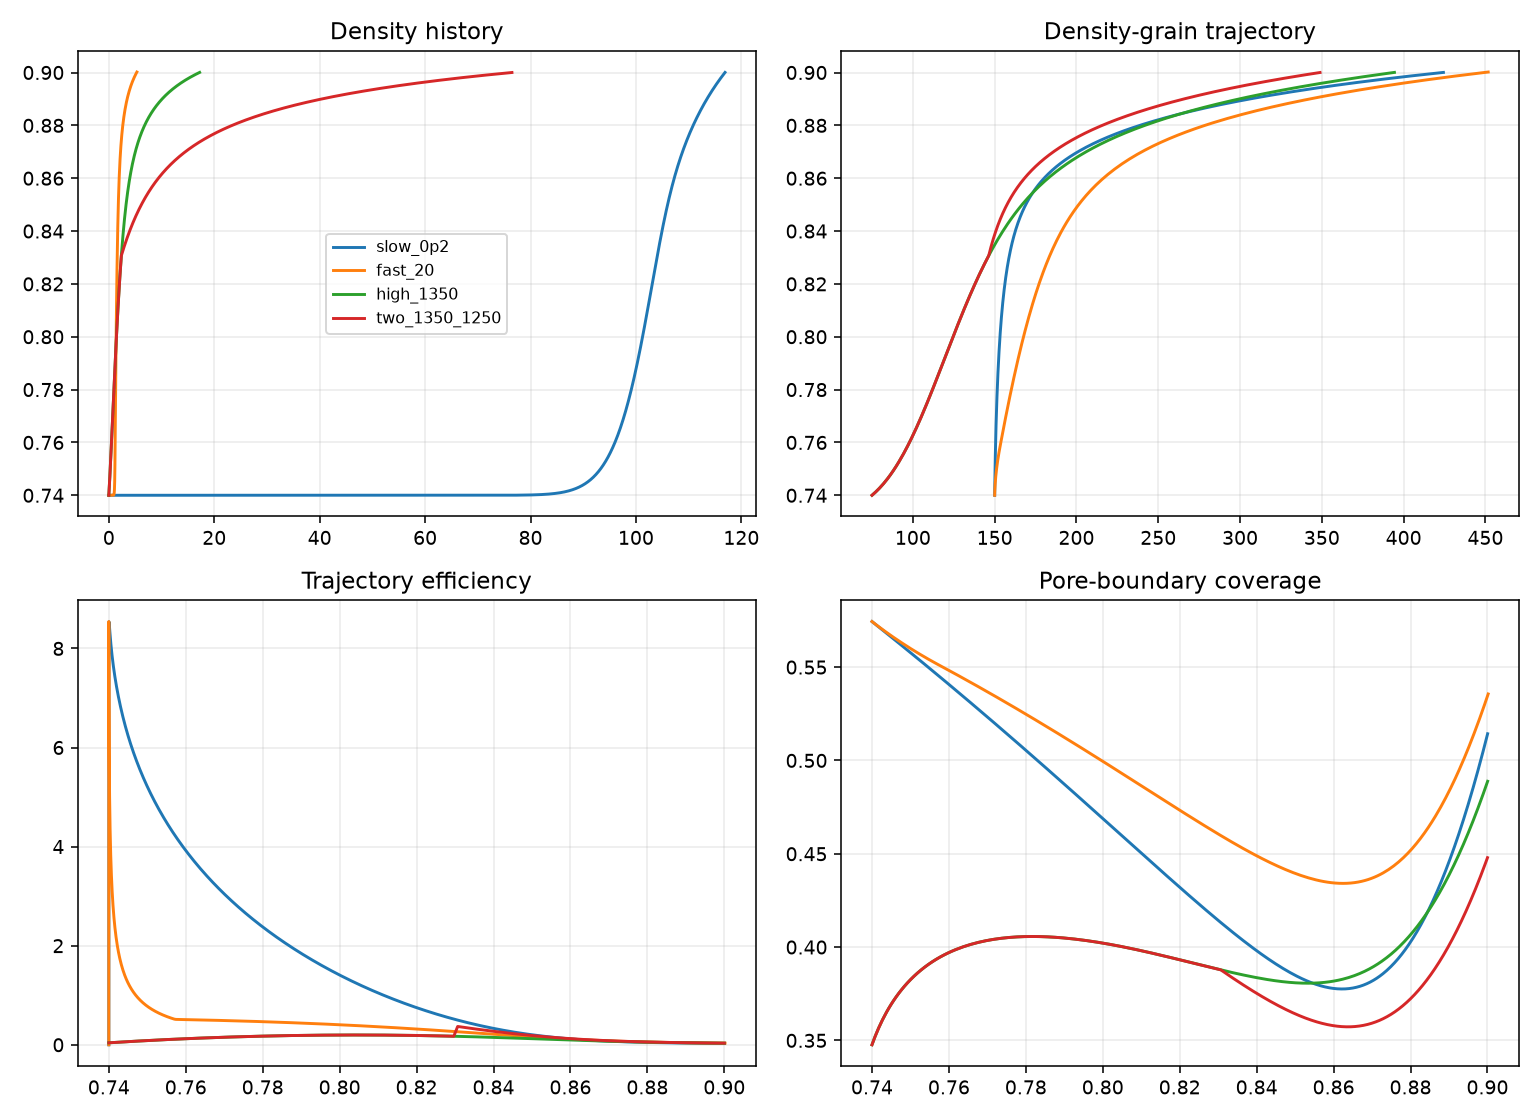
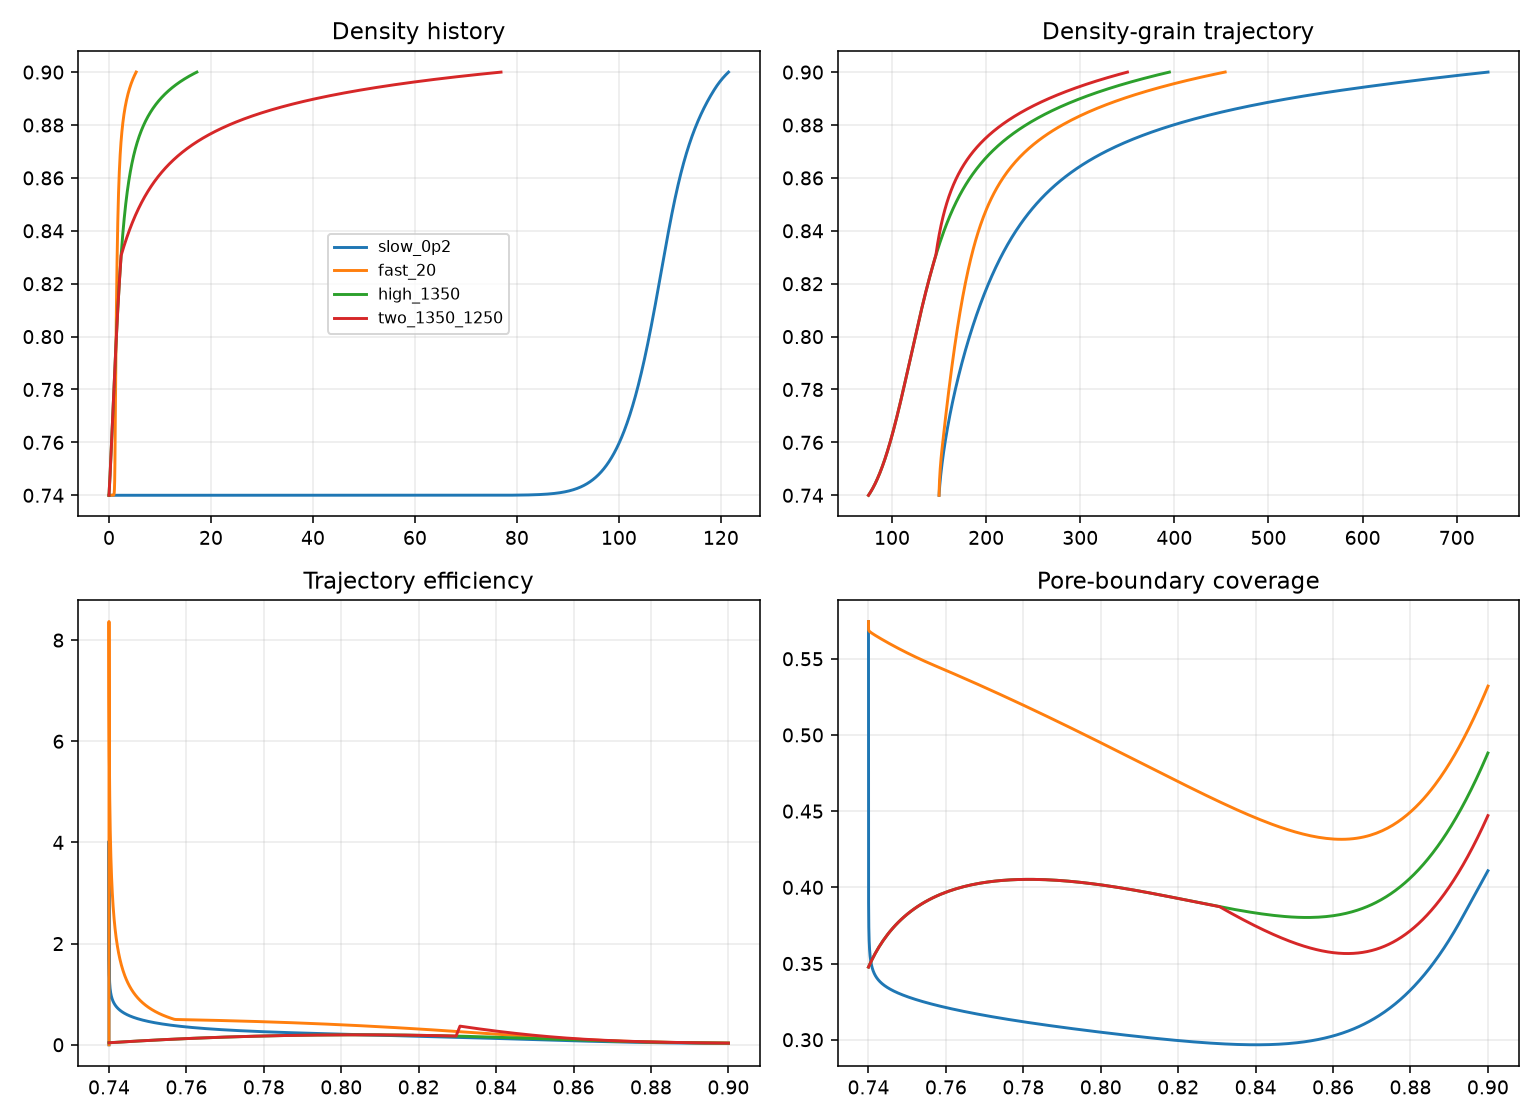
feat: add ablatable slow-ramp topology memory

diff --git a/topology_constrained_sintering.py b/topology_constrained_sintering.py
@@ -21,6 +21,7 @@ class StressState:
 class State:
     rho: float; G: float; pore_radii: np.ndarray; pore_phi: np.ndarray; pore_N: np.ndarray
     topology: TopologyState; stress: StressState; t: float=0.0
+    topology_damage: float=0.0
 @dataclass
 class MechanismFlux:
     rho_dot: float=0.; G_dot: float=0.
@@ -45,6 +46,15 @@ class Params:
     removal_radius_exp: float=2.; dt_min_s: float=.2; dt_max_s: float=180.
     drho_max: float=1e-3; dG_fraction_max: float=.01; dT_max_C: float=2.; rho_cap: float=.985; t_max_s: float=8e5
     enable_PR: bool=True; enable_TL_drag: bool=True; enable_pore_coarsening: bool=True
+    enable_topology_memory: bool=True
+    surface_damage_rate_s: float=2e-5
+    surface_damage_T_mid_C: float=1025.
+    surface_damage_T_width_C: float=180.
+    surface_damage_activity_exp: float=1.0
+    surface_damage_rho_mid: float=.79
+    surface_damage_rho_width: float=.015
+    damage_coverage_strength: float=.65
+    damage_isolation_strength: float=.35
 
 class ThermalProtocol(Protocol):
     t_end: float
@@ -63,10 +73,14 @@ class TwoStep:
     def T(self,t,rho): return self.T2_C if rho>=self.rho_switch else self.T1_C
 
 def pore_number(phi,r): return np.maximum(phi,0)/np.maximum(4*math.pi*r**3/3,1e-300)
-def infer_topology(rho,G,radii,phi,p):
+def infer_topology(rho,G,radii,phi,p,topology_damage=0.):
     N=pore_number(phi,radii); area=float(np.sum(N*math.pi*radii**2)); gb=2/max(G,1e-30)
     fp=1-math.exp(-max(p.coverage_chi*area/gb,0)); conn=sig((p.connectivity_rho_mid-rho)/p.connectivity_rho_width)
     iso=sig((rho-p.isolation_rho_mid)/p.isolation_rho_width)
+    if p.enable_topology_memory:
+        damage=float(np.clip(topology_damage,0,1))
+        fp*=math.exp(-p.damage_coverage_strength*damage)
+        iso+=p.damage_isolation_strength*damage*(1-iso)
     small=float(np.sum(phi[radii<=np.median(radii)])/max(np.sum(phi),1e-300))
     ftl=fp*(1-math.exp(-max(float(np.sum(N*2*math.pi*radii)*G**2),0)))
     return TopologyState(*(float(np.clip(x,0,1)) for x in (fp,1-fp,fp*conn*small,ftl,conn,iso)))
@@ -85,6 +99,14 @@ def kinetic_diagnostics(s,T_C,p):
     tl=p.tl_prefactor_s*s.topology.f_TL*math.exp(float(np.clip(p.Q_TL/(R*T),-700,700))) if p.enable_TL_drag else 0
     total=tn+te+tt+tl; completion=1/max(te+tt+tl,1e-300); L=rn/max(completion,1e-300)
     return dict(r_nuc=rn,tau_nuc=tn,tau_exchange=te,tau_transport=tt,tau_TL=tl,tau_event=total,completion_rate=completion,Lambda=L,activity=L/(1+L))
+def topology_damage_rate(s,T_C,p,k):
+    if not p.enable_topology_memory:return 0.
+    # Surface smoothing is strongest in an intermediate-temperature window;
+    # low renewal activity leaves that motion non-densifying and cumulative.
+    window=math.exp(-.5*((T_C-p.surface_damage_T_mid_C)/max(p.surface_damage_T_width_C,1e-9))**2)
+    inactive=(1-k['activity'])**max(p.surface_damage_activity_exp,0)
+    pre_densification=sig((p.surface_damage_rho_mid-s.rho)/max(p.surface_damage_rho_width,1e-9))
+    return p.surface_damage_rate_s*window*inactive*pre_densification*(1-float(np.clip(s.topology_damage,0,1)))
 def zeros(s): return np.zeros_like(s.pore_phi),np.zeros_like(s.pore_N)
 def renewal_densification(s,T,p,k):
     w=s.pore_phi*(p.pore_radius0/s.pore_radii)**p.removal_radius_exp; w/=max(w.sum(),1e-300)
@@ -128,10 +150,10 @@ def combine(m,w):
     for n,f in m.items(): out.rho_dot+=w[n]*f.rho_dot; out.G_dot+=w[n]*f.G_dot; out.pore_phi_dot+=w[n]*f.pore_phi_dot; out.pore_N_dot+=w[n]*f.pore_N_dot; out.power+=w[n]*f.power
     return out
 def run(p,protocol,stop_at_rho:Optional[float]=None):
-    s=initial_state(p); keys='t T_C rho G f_pore f_clean f_PR f_TL connectivity isolated_pore_fraction sigma_base sigma_concentration sigma_local r_nuc tau_exchange tau_transport tau_TL activity rho_dot dGdt E_G'.split(); h={k:[] for k in keys}; h.update(pore_phi=[],pore_N=[]); power_names=[]
+    s=initial_state(p); keys='t T_C rho G f_pore f_clean f_PR f_TL connectivity isolated_pore_fraction topology_damage topology_damage_rate sigma_base sigma_concentration sigma_local r_nuc tau_exchange tau_transport tau_TL activity rho_dot dGdt E_G'.split(); h={k:[] for k in keys}; h.update(pore_phi=[],pore_N=[]); power_names=[]
     while s.t<min(protocol.t_end,p.t_max_s) and s.rho<p.rho_cap:
-        T=protocol.T(s.t,s.rho); s.topology=infer_topology(s.rho,s.G,s.pore_radii,s.pore_phi,p); s.stress=infer_stress(s,p); k,m=evaluate_mechanisms(s,T,p); w=solve_dissipation_partition(s,s.topology,m,p); f=combine(m,w)
-        vals={'t':s.t,'T_C':T,'rho':s.rho,'G':s.G,**vars(s.topology),**vars(s.stress),**k,'rho_dot':f.rho_dot,'dGdt':f.G_dot,'E_G':f.rho_dot/(f.G_dot/max(s.G,1e-30)+1e-30)}
+        T=protocol.T(s.t,s.rho); s.topology=infer_topology(s.rho,s.G,s.pore_radii,s.pore_phi,p,s.topology_damage); s.stress=infer_stress(s,p); k,m=evaluate_mechanisms(s,T,p); damage_rate=topology_damage_rate(s,T,p,k); w=solve_dissipation_partition(s,s.topology,m,p); f=combine(m,w)
+        vals={'t':s.t,'T_C':T,'rho':s.rho,'G':s.G,'topology_damage':s.topology_damage,'topology_damage_rate':damage_rate,**vars(s.topology),**vars(s.stress),**k,'rho_dot':f.rho_dot,'dGdt':f.G_dot,'E_G':f.rho_dot/(f.G_dot/max(s.G,1e-30)+1e-30)}
         for key in keys:h[key].append(vals[key])
         h['pore_phi'].append(s.pore_phi.copy()); h['pore_N'].append(s.pore_N.copy())
         if not power_names:
@@ -145,7 +167,7 @@ def run(p,protocol,stop_at_rho:Optional[float]=None):
         if f.G_dot>0:dt=min(dt,p.dG_fraction_max*s.G/f.G_dot)
         dt=max(p.dt_min_s,dt); total=max(float(s.pore_phi.sum())-f.rho_dot*dt,0); new=np.maximum(s.pore_phi+f.pore_phi_dot*dt,0)
         if new.sum()>0:new*=total/new.sum()
-        s.pore_phi=new;s.rho=1-float(new.sum());s.pore_N=pore_number(new,s.pore_radii);s.G=max(s.G+f.G_dot*dt,1e-9);s.t+=dt
+        s.pore_phi=new;s.rho=1-float(new.sum());s.pore_N=pore_number(new,s.pore_radii);s.G=max(s.G+f.G_dot*dt,1e-9);s.topology_damage=float(np.clip(s.topology_damage+damage_rate*dt,0,1));s.t+=dt
     return {k:np.asarray(v,float) for k,v in h.items()}
 def value_at_density(result,target):
     i=np.flatnonzero(result['rho']>=target); return (float(result['G'][i[0]]),True) if i.size else (math.nan,False)

diff --git a/run_topology_diagnostics.py b/run_topology_diagnostics.py
@@ -15,7 +15,7 @@ def main():
         G,reached=m.value_at_density(r,args.target);rows.append({'protocol':name,'reached_target':reached,'rho_final':r['rho'][-1],'G_at_target_nm':G*1e9,'time_final_h':r['t'][-1]/3600,'median_E_G':float(np.median(r['E_G']))})
     q={x['protocol']:x for x in rows};metrics={'HR_pct':m.percent_gain(q['slow_0p2']['G_at_target_nm'],q['fast_20']['G_at_target_nm']),'TS_pct':m.percent_gain(q['high_1350']['G_at_target_nm'],q['two_1350_1250']['G_at_target_nm'])}
     for name,data in [('protocol_summary.csv',rows),('percent_metrics.csv',[metrics])]:
-        with (out/name).open('w',newline='') as f:w=csv.DictWriter(f,fieldnames=data[0].keys());w.writeheader();w.writerows(data)
+        with (out/name).open('w',newline='') as f:w=csv.DictWriter(f,fieldnames=data[0].keys(),lineterminator='\n');w.writeheader();w.writerows(data)
     fig,ax=plt.subplots(2,2,figsize=(11,8))
     for name,r in runs.items():ax[0,0].plot(r['t']/3600,r['rho'],label=name);ax[0,1].plot(r['G']*1e9,r['rho'],label=name);ax[1,0].plot(r['rho'],r['E_G'],label=name);ax[1,1].plot(r['rho'],r['f_pore'],label=name)
     for x,title in zip(ax.flat,['Density history','Density-grain trajectory','Trajectory efficiency','Pore-boundary coverage']):x.set_title(title);x.grid(alpha=.25)
@@ -24,6 +24,19 @@ def main():
     for G in (50,100,250,500):
         for T in (1150,1250,1350):
             r=m.run(replace(p,rho0=.83,G0=G*1e-9),m.Iso(T,12*3600),.90);window.append({'G0_nm':G,'T_C':T,'rho_final':r['rho'][-1],'activity_median':float(np.median(r['activity'])),'E_G_median':float(np.median(r['E_G']))})
-    with (out/'second_step_window.csv').open('w',newline='') as f:w=csv.DictWriter(f,fieldnames=window[0].keys());w.writeheader();w.writerows(window)
+    with (out/'second_step_window.csv').open('w',newline='') as f:w=csv.DictWriter(f,fieldnames=window[0].keys(),lineterminator='\n');w.writeheader();w.writerows(window)
+    ablation=[]; ablation_runs={}
+    for label,enabled in [('baseline_prototype',False),('topology_memory',True),('topology_memory_disabled',False)]:
+        ap=replace(p,enable_topology_memory=enabled)
+        ar={'slow':m.run(ap,m.RampHold(.2),args.target),'fast':m.run(ap,m.RampHold(20),args.target),'high':m.run(replace(ap,G0=75e-9),m.Iso(1350),args.target),'two':m.run(replace(ap,G0=75e-9),m.TwoStep(),args.target)};ablation_runs[label]=ar
+        gv={name:m.value_at_density(r,args.target) for name,r in ar.items()}
+        ablation.append({'case':label,'memory_enabled':enabled,'all_reached':all(ok for _,ok in gv.values()),'HR_pct':m.percent_gain(gv['slow'][0],gv['fast'][0]),'TS_pct':m.percent_gain(gv['high'][0],gv['two'][0]),'slow_damage_final':ar['slow']['topology_damage'][-1],'fast_damage_final':ar['fast']['topology_damage'][-1]})
+    with (out/'topology_memory_ablation.csv').open('w',newline='') as f:w=csv.DictWriter(f,fieldnames=ablation[0].keys(),lineterminator='\n');w.writeheader();w.writerows(ablation)
+    fig,ax=plt.subplots(1,2,figsize=(11,4.5))
+    for name in ('slow','fast'):
+        r=ablation_runs['topology_memory'][name];ax[0].plot(r['t']/3600,r['topology_damage'],label=name);ax[1].plot(r['rho'],r['E_G'],label=name)
+    ax[0].set(xlabel='Time [h]',ylabel='Topology damage',title='Accumulated surface-coarsening memory');ax[1].set(xlabel='Density',ylabel='E_G',title='Density/grain-growth efficiency')
+    for x in ax:x.grid(alpha=.25);x.legend()
+    fig.tight_layout();fig.savefig(out/'topology_memory_slow_fast.png',dpi=140);plt.close(fig)
     print({**metrics,'all_reached':all(x['reached_target'] for x in rows)})
 if __name__=='__main__':main()

diff --git a/tests/test_topology_constrained_sintering.py b/tests/test_topology_constrained_sintering.py
@@ -7,4 +7,18 @@ def test_partition_nonnegative_and_conservative():
 def test_pore_conservation_and_nonnegative_bins():
     r=m.run(m.Params(rho0=.83,G0=100e-9,t_max_s=3600),m.Iso(1300,3600));assert np.all(r['pore_phi']>=0);assert np.all(r['pore_N']>=0);assert np.allclose(r['rho'],1-r['pore_phi'].sum(axis=1),atol=1e-12)
 def test_required_diagnostics():
-    r=m.run(m.Params(t_max_s=60),m.Iso(1300,60));required={'rho','G','pore_phi','f_pore','f_clean','f_PR','f_TL','sigma_base','sigma_concentration','sigma_local','r_nuc','tau_exchange','tau_transport','tau_TL','activity','rho_dot','dGdt','E_G','power_renewal_densification'};assert required<=r.keys()
+    r=m.run(m.Params(t_max_s=60),m.Iso(1300,60));required={'rho','G','pore_phi','f_pore','f_clean','f_PR','f_TL','topology_damage','topology_damage_rate','sigma_base','sigma_concentration','sigma_local','r_nuc','tau_exchange','tau_transport','tau_TL','activity','rho_dot','dGdt','E_G','power_renewal_densification'};assert required<=r.keys()
+def test_topology_memory_flips_heating_rate_sign_and_preserves_two_step():
+    from dataclasses import replace
+    target=.90;p=m.Params();off=replace(p,enable_topology_memory=False)
+    def protocols(q):return [m.run(q,m.RampHold(.2),target),m.run(q,m.RampHold(20),target),m.run(replace(q,G0=75e-9),m.Iso(1350),target),m.run(replace(q,G0=75e-9),m.TwoStep(),target)]
+    enabled=protocols(p);disabled=protocols(off)
+    assert all(m.value_at_density(r,target)[1] for r in enabled+disabled)
+    ge=[m.value_at_density(r,target)[0] for r in enabled];gd=[m.value_at_density(r,target)[0] for r in disabled]
+    assert m.percent_gain(ge[0],ge[1])>0 and m.percent_gain(ge[2],ge[3])>0
+    assert enabled[0]['topology_damage'][-1]>enabled[1]['topology_damage'][-1]
+    assert m.percent_gain(gd[0],gd[1])<0
+    for r in enabled+disabled:
+        assert np.all(r['pore_phi']>=0) and np.all(r['pore_N']>=0)
+        assert np.allclose(r['rho'],1-r['pore_phi'].sum(axis=1),atol=1e-12)
+        assert np.max(r['sigma_local'])<=p.stress_cap

diff --git a/search_topology_initial.py b/search_topology_initial.py
@@ -9,6 +9,6 @@ def main():
     for i in range(x.n):
         p=m.Params() if i==0 else m.Params(Q_growth=rng.uniform(385e3,455e3),Q_nucleation=rng.uniform(410e3,470e3),pore_drag_resistance=10**rng.uniform(-.2,1),tl_drag_resistance=10**rng.uniform(-.2,1),connectivity_rho_mid=rng.uniform(.85,.90)); ps=[p,p,replace(p,G0=75e-9),replace(p,G0=75e-9)];protos=[m.RampHold(.2),m.RampHold(20),m.Iso(1350),m.TwoStep()];rr=[m.run(pp,pr,x.target) for pp,pr in zip(ps,protos)];v=[m.value_at_density(r,x.target) for r in rr];reached=all(ok for _,ok in v);g=[z*1e9 for z,_ in v];hr=m.percent_gain(g[0],g[1]);ts=m.percent_gain(g[2],g[3]);eg=float(np.median(np.concatenate([r['E_G'] for r in rr])));rows.append({'sample':i,'all_reached':reached,'HR_pct':hr,'TS_pct':ts,'median_E_G':eg,'combined_score':min(hr,ts)+eg if reached else -1e9,'Q_growth_kJ':p.Q_growth/1e3,'Q_nucleation_kJ':p.Q_nucleation/1e3,'pore_drag_resistance':p.pore_drag_resistance,'tl_drag_resistance':p.tl_drag_resistance,'connectivity_rho_mid':p.connectivity_rho_mid})
     rows.sort(key=lambda z:z['combined_score'],reverse=True);path=Path(x.out);path.parent.mkdir(parents=True,exist_ok=True)
-    with path.open('w',newline='') as f:w=csv.DictWriter(f,fieldnames=rows[0].keys());w.writeheader();w.writerows(rows)
+    with path.open('w',newline='') as f:w=csv.DictWriter(f,fieldnames=rows[0].keys(),lineterminator='\n');w.writeheader();w.writerows(rows)
     print('best',rows[0])
 if __name__=='__main__':main()

diff --git a/docs/SEARCH_RESULTS_TOPOLOGY_MEMORY.md b/docs/SEARCH_RESULTS_TOPOLOGY_MEMORY.md
@@ -1,0 +1,36 @@
+# Topology-memory mechanism result
+
+## Mechanism
+
+`topology_damage` is an accumulated state for non-densifying surface smoothing
+during a Gaussian intermediate-temperature window. Its rate is proportional to
+low renewal activity, a pre-densification density gate, and the remaining
+undamaged fraction. It is bounded between zero and one.
+
+Damage acts only through named topology channels: it lowers removable
+pore-boundary coverage and increases isolated-pore fraction. Consequently it
+reduces density gain per event and `E_G`; it is not an `eta_total`. The state,
+rate, and resulting topology changes are emitted at every integration step and
+the mechanism is disabled with `enable_topology_memory=False`.
+
+## Deterministic result at rho = 0.90
+
+| Case | HR_pct | TS_pct | Slow damage | Fast damage | All reached |
+|---|---:|---:|---:|---:|---|
+| Baseline prototype / disabled | -6.4503 | 11.5345 | 0 | 0 | yes |
+| Topology memory | 38.0887 | 11.2949 | 0.8481 | 0.0174 | yes |
+
+The ablation therefore restores the exact prior negative heating-rate result,
+while the enabled state flips its sign and preserves the two-step advantage.
+No target density, protocol, stress cap, or unrelated kinetic parameter was
+changed. Exact generated values are in
+`results/initial/topology_memory_ablation.csv`.
+
+## Interpretation and limitation
+
+The result supports the missing-memory diagnosis: a slow ramp spends enough
+time in the surface-smoothing window to lose removable pore topology before
+densification becomes efficient. The magnitude of the predicted heating-rate
+advantage is not calibrated and should not yet be treated quantitatively.
+Next work should validate the temperature window and damage rate against pore
+size or surface-area observations before any expanded search.
